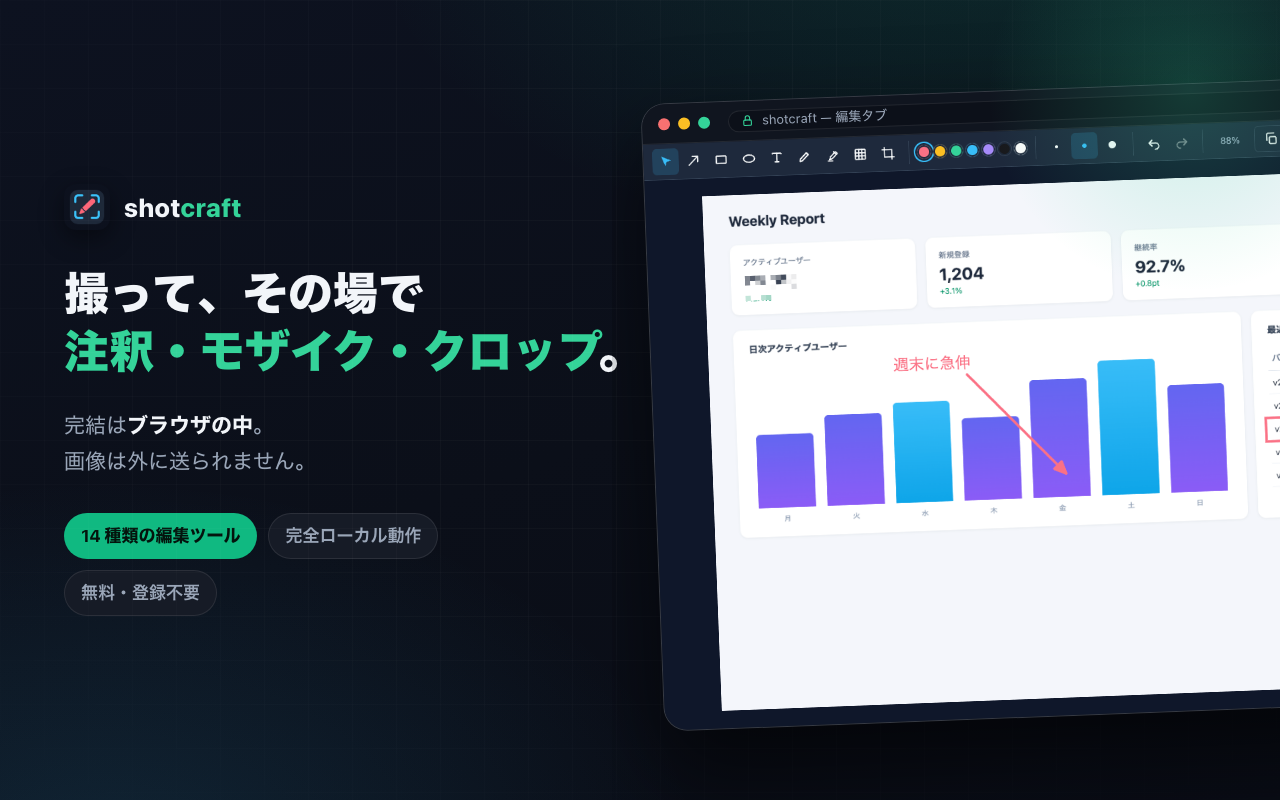
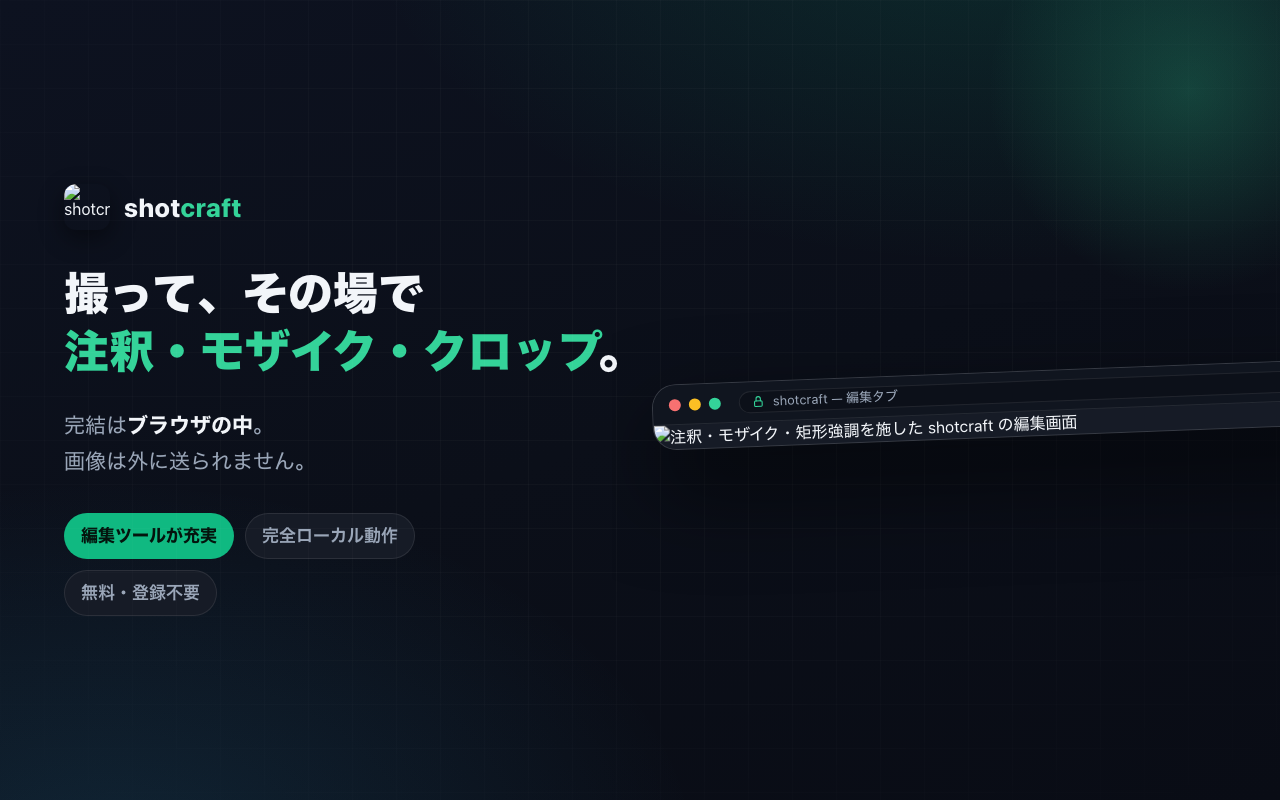
docs: ストア画像からエンジニア用語と数の直書きを排除(変更に強い文言へ)

diff --git a/docs/store/shot-4.html b/docs/store/shot-4.html
@@ -162,8 +162,8 @@
       <div class="wrap">
         <div class="head">
           <span class="eyebrow">テーマ・プライバシー</span>
-          <h1><span class="n">5 つ</span>のテーマ。すべてローカル。</h1>
-          <p class="sub">UI の配色は 5 種から選べて、次回も引き継がれます。処理はぜんぶブラウザの中。</p>
+          <h1><span class="n">好きな配色</span>で。すべてローカル。</h1>
+          <p class="sub">画面の配色は好みのテーマから選べます。処理はぜんぶブラウザの中。</p>
         </div>
 
         <div class="themes">
@@ -228,8 +228,8 @@
               <svg viewBox="0 0 24 24" fill="none" stroke="currentColor" stroke-width="2" stroke-linecap="round" stroke-linejoin="round"><rect x="5" y="11" width="14" height="10" rx="2" /><path d="M8 11V7a4 4 0 0 1 8 0v4" /></svg>
             </div>
             <div>
-              <h3>権限は 3 つだけ</h3>
-              <p>activeTab / scripting / storage</p>
+              <h3>よけいな権限は求めません</h3>
+              <p>閲覧履歴などは見ません</p>
             </div>
           </div>
         </div>

diff --git a/docs/store/shot-3.html b/docs/store/shot-3.html
@@ -155,7 +155,7 @@
       <div class="wrap">
         <div class="head">
           <span class="eyebrow">ツールとオプション</span>
-          <h1><span class="n">14 種類</span>のツール。<br />オプションはボタンの真下に。</h1>
+          <h1>必要なツールは、<span class="n">ぜんぶ</span>。<br />オプションはボタンの真下に。</h1>
           <p class="sub">
             ツールを選ぶと、そのボタンの真下にスタイルのフライアウトが開きます。線種・矢印・サイズなど、必要な選択肢だけがその場に。
           </p>

diff --git a/docs/store/shot-1.html b/docs/store/shot-1.html
@@ -103,7 +103,7 @@
             完結は<span class="lock">ブラウザの中</span>。<br />画像は外に送られません。
           </p>
           <div class="chips">
-            <span class="chip accent">14 種類の編集ツール</span>
+            <span class="chip accent">編集ツールが充実</span>
             <span class="chip">完全ローカル動作</span>
             <span class="chip">無料・登録不要</span>
           </div>
